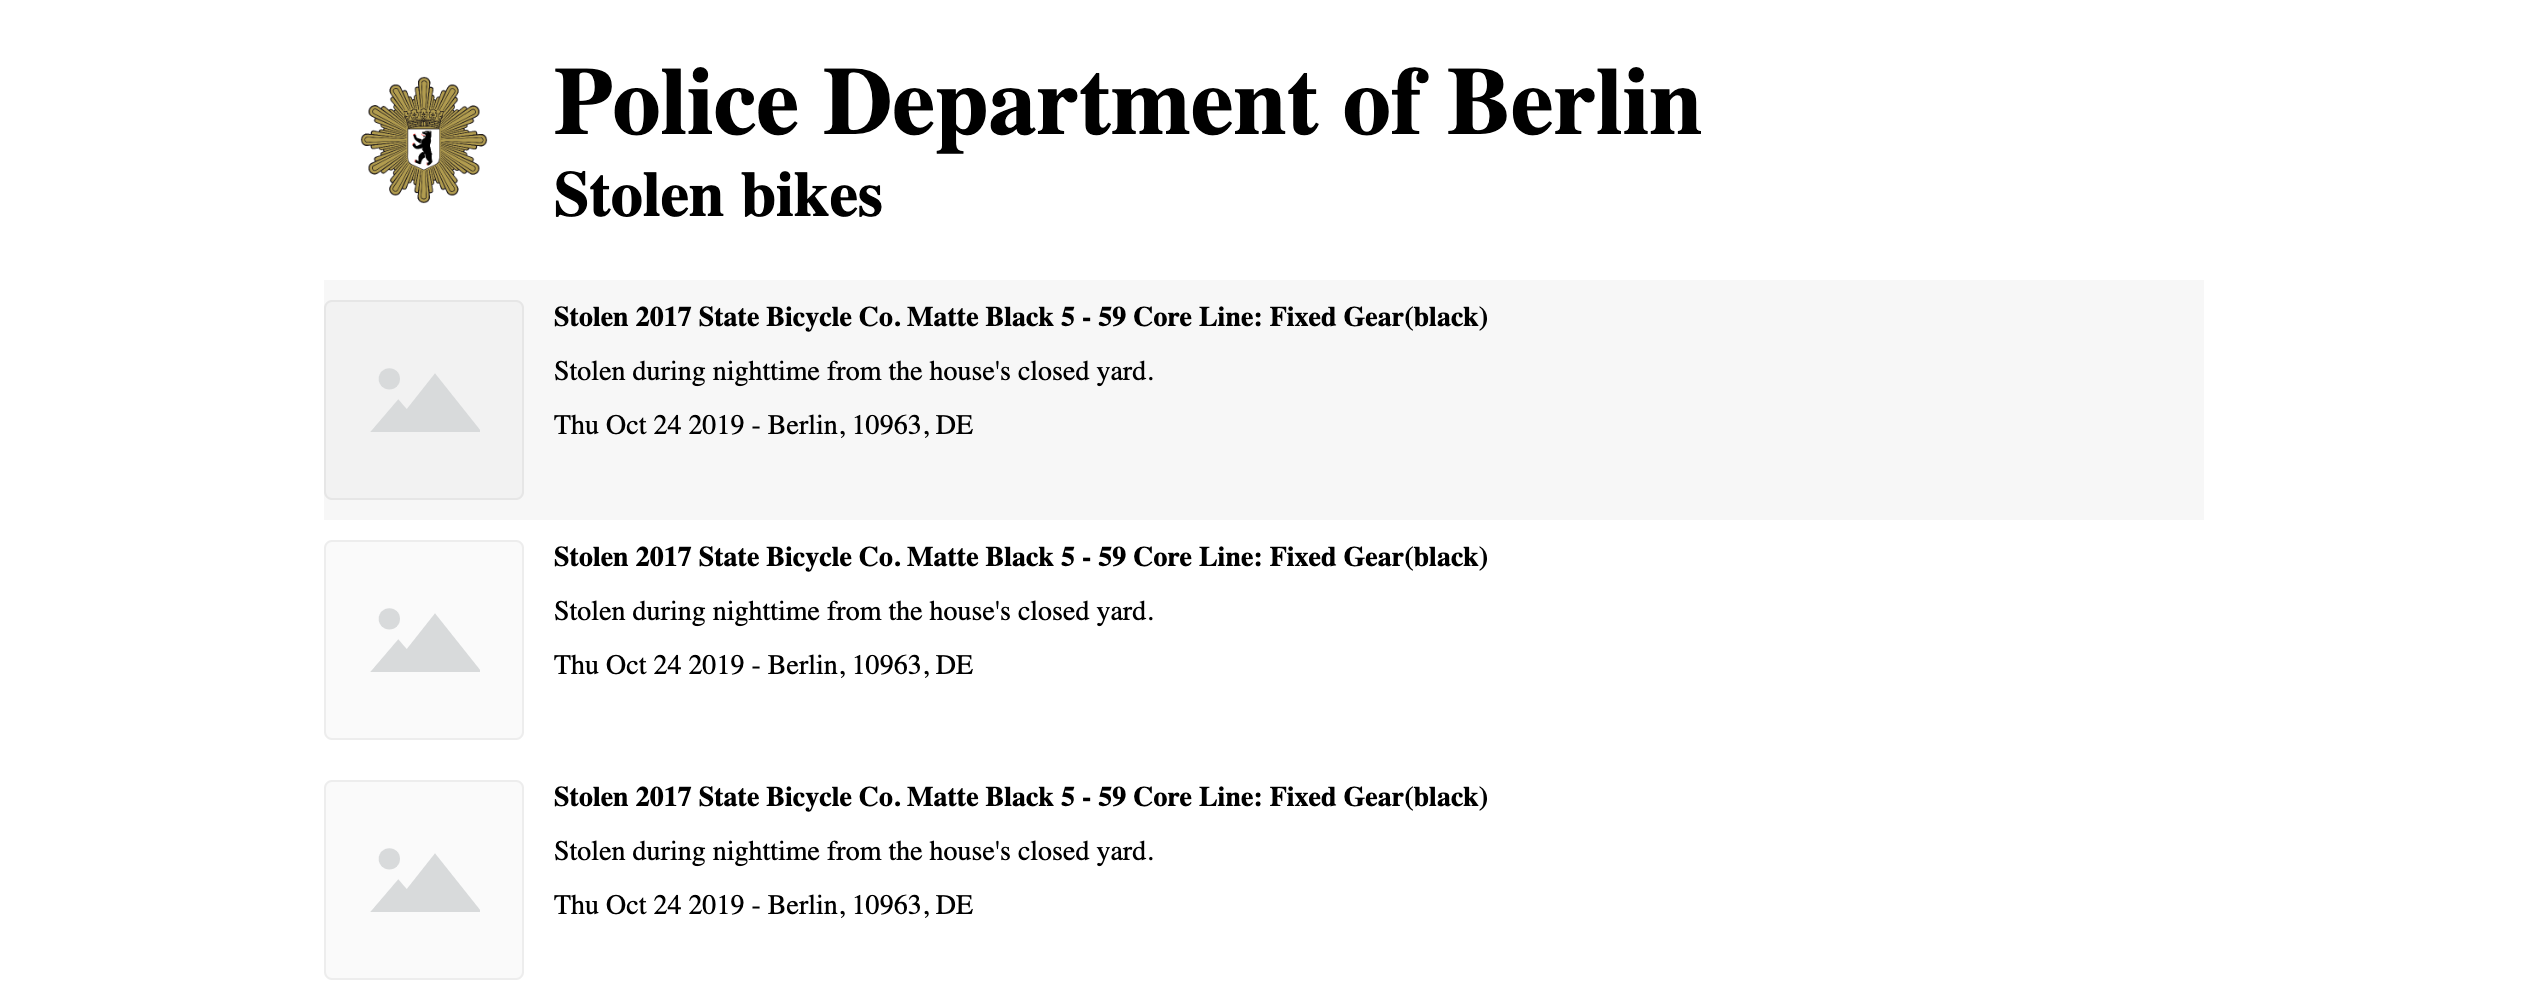
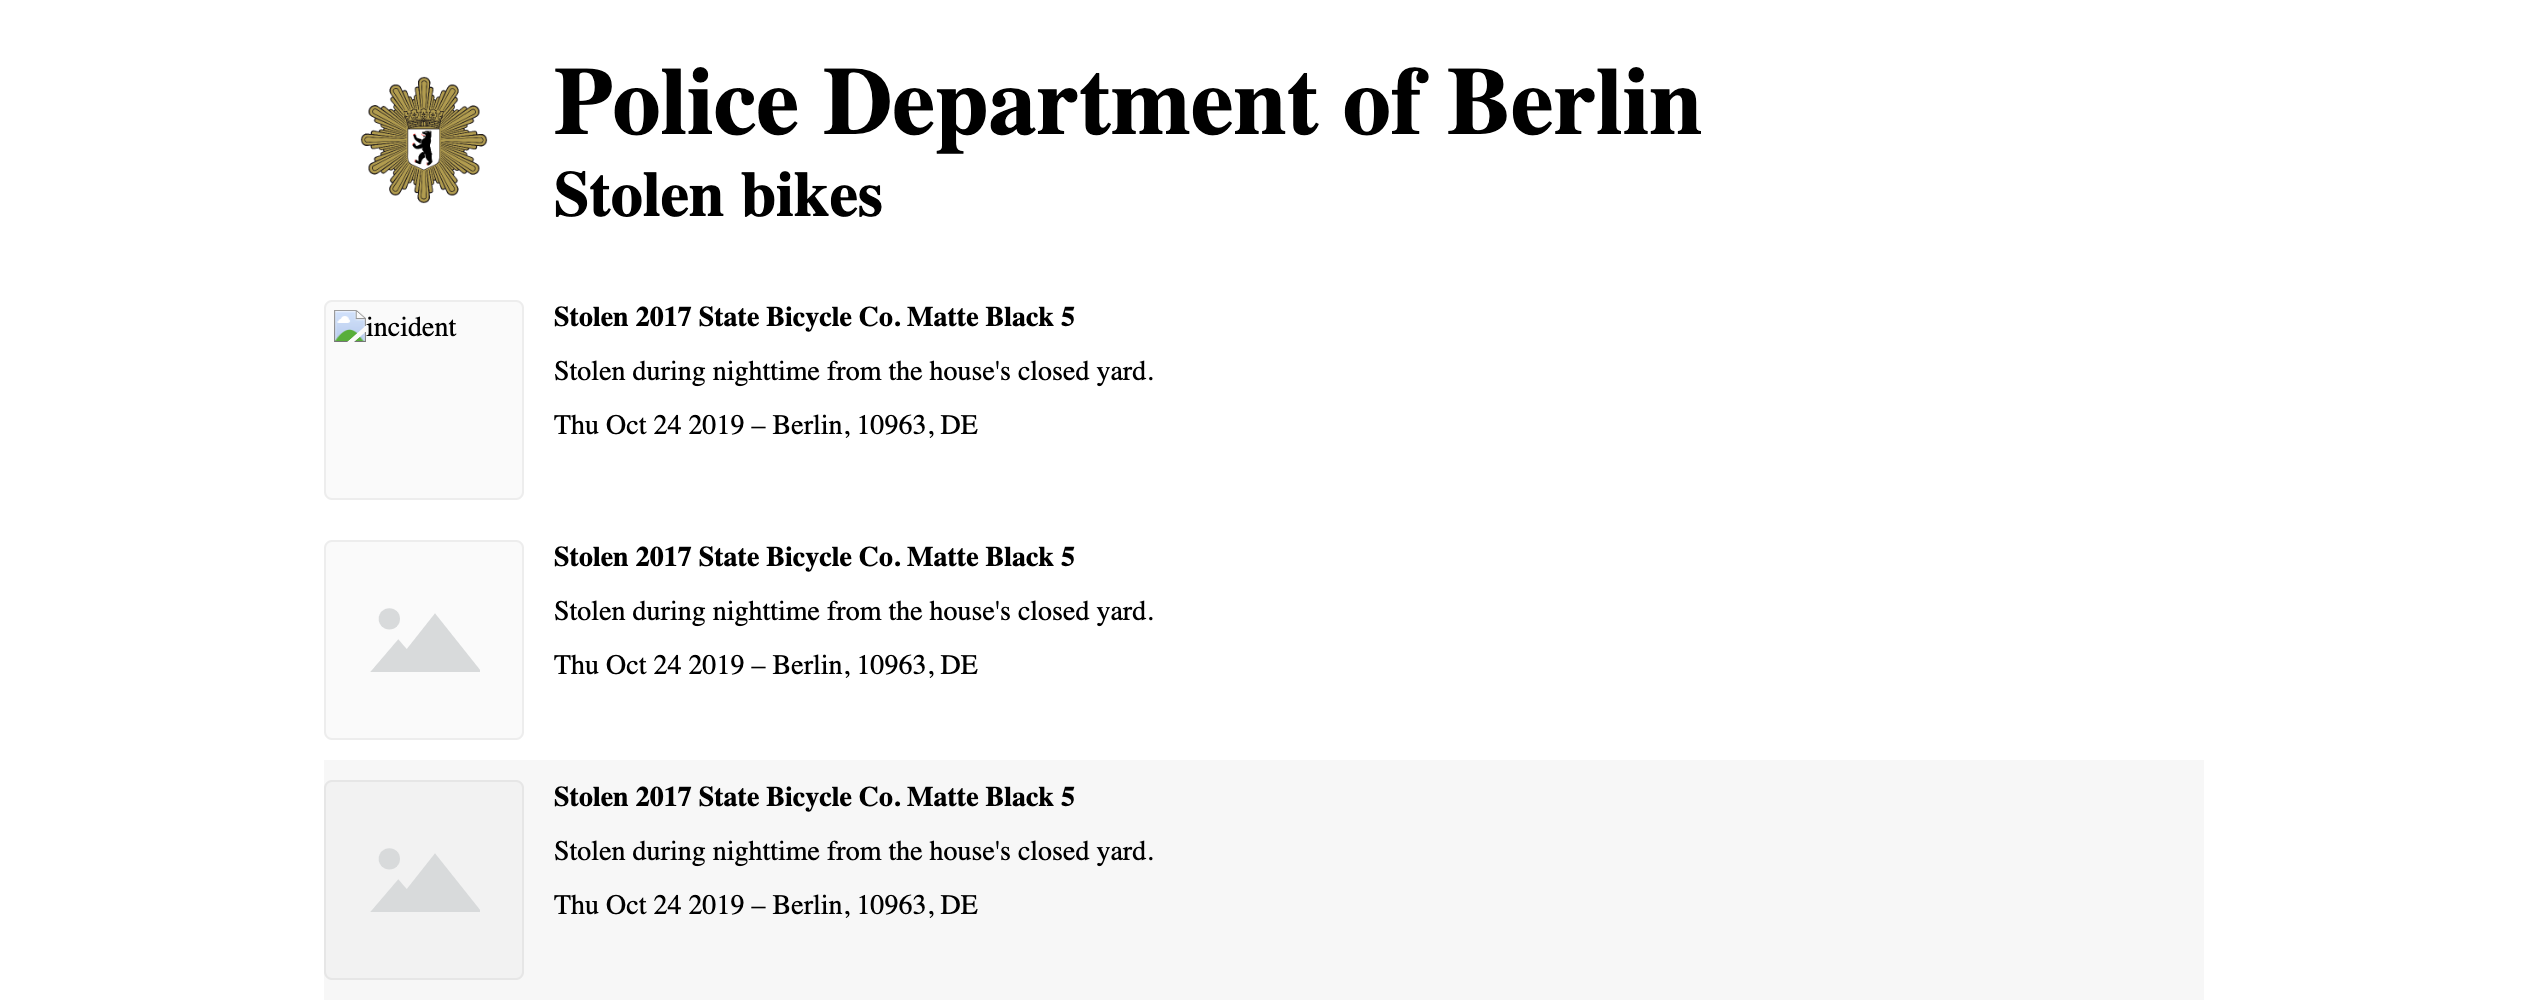
Add behaviour tests

diff --git a/app/e2e-tests/IncidentsList@behaviour.hermione.js b/app/e2e-tests/IncidentsList@behaviour.hermione.js
@@ -1,0 +1,238 @@
+const { assert } = require('chai');
+const { mockIncidents, mockIncidentsWithError } = require('./helpers/mockIncidents');
+const timeout = 5000;
+
+describe('Behaviour. Incidents list', () => {
+    describe('I want to see a list of reported bike thefts for the Berlin area.', () => {
+        describe('For each incident I want to see title, description, image, occurredAt, address', () => {
+            it('should render title', function() {
+                return this.browser
+                    .url('/')
+                    .execute(mockIncidents)
+                    .waitForVisible('[data-test-id="incidents-list"]', timeout)
+                    .execute(() => {
+                        const incidents = document.body.querySelectorAll('[data-test-id="incident"]');
+
+                        const result = {
+                            incidentsCount: incidents.length,
+                        };
+
+                        const incident = incidents.length > 0 ? incidents[0] : null;
+                        if (incident === null) {
+                            return result;
+                        }
+
+                        const titles = incident.querySelectorAll('[data-test-id="incident__title"]');
+                        result.titlesCount = titles.length;
+
+                        result.incidentTitleText = titles.length > 0 && titles[0].textContent;
+
+                        return result;
+                    })
+                    .then(result => {
+                        const { value } = result;
+                        const { incidentsCount, titlesCount, incidentTitleText } = value;
+
+                        assert.isOk(incidentsCount > 0, 'Should be at least one incident');
+                        assert.isOk(titlesCount === 1, 'Should be one title');
+                        const titleText = 'Stolen 2017 State Bicycle Co. Matte Black 5';
+                        assert.isOk(incidentTitleText === titleText, 'It should match text value');
+                    });
+            });
+
+            it('should render description', function() {
+                return this.browser
+                    .url('/')
+                    .execute(mockIncidents)
+                    .waitForVisible('[data-test-id="incidents-list"]', timeout)
+                    .execute(() => {
+                        const incidents = document.body.querySelectorAll('[data-test-id="incident"]');
+
+                        const result = {
+                            incidentsCount: incidents.length,
+                        };
+
+                        const incident = incidents.length > 0 ? incidents[0] : null;
+                        if (incident === null) {
+                            return result;
+                        }
+
+                        const descriptions = incident.querySelectorAll('[data-test-id="incident__description"]');
+                        result.descriptionsCount = descriptions.length;
+                        result.incidentDescriptionText = descriptions.length > 0 && descriptions[0].textContent;
+
+                        return result;
+                    })
+                    .then(result => {
+                        const { value } = result;
+                        const { incidentsCount, descriptionsCount, incidentDescriptionText } = value;
+
+                        assert.isOk(incidentsCount > 0, 'Should be at least one incident');
+                        assert.isOk(descriptionsCount === 1, 'Should be one description');
+                        const descriptionText = "Stolen during nighttime from the house's closed yard.";
+                        assert.isOk(incidentDescriptionText === descriptionText, 'It should match text value');
+                    });
+            });
+
+            it('should have image', function() {
+                return this.browser
+                    .url('/')
+                    .execute(mockIncidents)
+                    .waitForVisible('[data-test-id="incidents-list"]', timeout)
+                    .execute(() => {
+                        const incidents = document.body.querySelectorAll('[data-test-id="incident"]');
+
+                        const result = {
+                            incidentsCount: incidents.length,
+                        };
+
+                        const images = incidents[0].querySelectorAll('[data-test-id="incident-image__image"]');
+                        result.imageCount = images.length;
+                        result.imageSrc = images.length > 0 && images[0].style.backgroundImage;
+
+                        const previews = incidents[1].querySelectorAll('[data-test-id="incident-image__preview"]');
+                        result.previewCount = previews.length;
+
+                        return result;
+                    })
+                    .then(result => {
+                        const { value } = result;
+                        const { incidentsCount, previewCount, imageCount, imageSrc } = value;
+
+                        assert.isOk(incidentsCount > 0, 'Should be at least one incident');
+                        assert.isOk(previewCount === 1, 'First incident should have a preview');
+                        assert.isOk(imageCount === 1, 'Second incident should have a image');
+                        const expected = 'url("https://something-wrong.org1/small_bike-3.jpg")';
+                        assert.isOk(imageSrc === expected, 'Image source should match the url');
+                    });
+            });
+
+            describe('I want that date must be in format "Tue Nov 27 2018"', () => {
+                it('should render date', function() {
+                    return this.browser
+                        .url('/')
+                        .execute(mockIncidents)
+                        .waitForVisible('[data-test-id="incidents-list"]', timeout)
+                        .execute(() => {
+                            const incidents = document.body.querySelectorAll('[data-test-id="incident"]');
+
+                            const result = {
+                                incidentsCount: incidents.length,
+                            };
+
+                            const dates = incidents[0].querySelectorAll('[data-test-id="incident__date"]');
+                            result.datesCount = dates.length;
+                            result.incidentDateText = dates.length > 0 && dates[0].textContent;
+
+                            return result;
+                        })
+                        .then(result => {
+                            const { value } = result;
+                            const { incidentsCount, datesCount, incidentDateText } = value;
+
+                            assert.isOk(incidentsCount > 0, 'Should be at least one incident');
+                            assert.isOk(datesCount === 1, 'It should have a occurred date');
+                            assert.isOk(incidentDateText === 'Thu Oct 24 2019', 'It should match text value');
+                        });
+                });
+            });
+
+            describe('I want that address must be in format "Berlin, 10405, DE"', () => {
+                it('should render address', function() {
+                    return this.browser
+                        .url('/')
+                        .execute(mockIncidents)
+                        .waitForVisible('[data-test-id="incidents-list"]', timeout)
+                        .execute(() => {
+                            const incidents = document.body.querySelectorAll('[data-test-id="incident"]');
+
+                            const result = {
+                                incidentsCount: incidents.length,
+                            };
+
+                            const addresss = incidents[0].querySelectorAll('[data-test-id="incident__address"]');
+                            result.addresssCount = addresss.length;
+                            result.incidentAddressText = addresss.length > 0 && addresss[0].textContent;
+
+                            return result;
+                        })
+                        .then(result => {
+                            const { value } = result;
+                            const { incidentsCount, addresssCount, incidentAddressText } = value;
+
+                            assert.isOk(incidentsCount > 0, 'Should be at least one incident');
+                            assert.isOk(addresssCount === 1, 'It should have a address');
+                            assert.isOk(incidentAddressText === 'Berlin, 10963, DE', 'It should match text value');
+                        });
+                });
+            });
+        });
+    });
+
+    // describe('I want to see the first 10 bike theft cases, with the ability to - paginate (10 cases per page).', () => {});
+    // describe('I want to see a total number of bike theft cases.', () => {});
+    // describe('I want to filter reported bike thefts by partial case title.', () => {});
+    // describe('I want to filter reported bike thefts by date range.', () => {});
+});
+
+// describe('Incident details: for each reported bike theft I want to see:', () => {
+//     describe('Case title', () => {});
+//     describe('Case description', () => {});
+//     describe('Date of the theft', () => {});
+//     describe('Date of when the case was reported', () => {});
+//     describe('Location of the theft', () => {});
+//     describe('Picture of the bike, if available', () => {});
+// });
+
+describe('Behaviour. Common cases', () => {
+    describe('I want to see a loading state until the list is available.', () => {
+        it('should render loading state', function() {
+            return this.browser
+                .url('/')
+                .execute(mockIncidents)
+                .waitForVisible('[data-test-id="loading"]', timeout)
+                .execute(() => {
+                    const loading = document.body.querySelectorAll('[data-test-id="loading"]');
+                    const loadingText = loading.length > 0 && loading[0].textContent;
+
+                    return {
+                        loadingCount: loading.length,
+                        loadingText,
+                    };
+                })
+                .then(result => {
+                    const { value } = result;
+                    const { loadingCount, loadingText } = value;
+
+                    assert.isOk(loadingCount === 1, 'It should be one loading component');
+                    assert.isOk(loadingText === 'Loading ...', 'It should match text value');
+                });
+        });
+    });
+
+    describe('I want to see an error state if the list is unavailable.', () => {
+        it('should render error state', function() {
+            return this.browser
+                .url('/')
+                .execute(mockIncidentsWithError)
+                .waitForVisible('[data-test-id="error"]', timeout)
+                .execute(() => {
+                    const error = document.body.querySelectorAll('[data-test-id="error"]');
+                    const errorText = error.length > 0 && error[0].textContent;
+
+                    return {
+                        errorCount: error.length,
+                        errorText,
+                    };
+                })
+                .then(result => {
+                    const { value } = result;
+                    const { errorCount, errorText } = value;
+
+                    assert.isOk(errorCount === 1, 'It should be one error component');
+                    assert.isOk(errorText === 'Ooops, something went wrong', 'It should match text value');
+                });
+        });
+    });
+    describe('I want to see an empty state if there are no results.', () => {});
+});

diff --git a/app/e2e-tests/helpers/mockIncidents.js b/app/e2e-tests/helpers/mockIncidents.js
@@ -7,8 +7,8 @@ function mockIncidents() {
             locationDescription: null,
             locationType: null,
             media: {
-                imageUrl: null,
-                imageUrlThumb: null,
+                imageUrl: id === 0 ? 'https://something-wrong.org1/large_bike-3.jpg' : null,
+                imageUrlThumb: id === 0 ? 'https://something-wrong.org1/small_bike-3.jpg' : null,
             },
             occurredAt: 1571918301,
             source: {
@@ -16,7 +16,7 @@ function mockIncidents() {
                 htmlUrl: 'https://bikeindex.org/bikes/669448',
                 apiUrl: 'https://bikeindex.org/api/v1/bikes/669448',
             },
-            title: 'Stolen 2017 State Bicycle Co. Matte Black 5 - 59 Core Line: Fixed Gear(black)',
+            title: 'Stolen 2017 State Bicycle Co. Matte Black 5',
             type: 'Theft',
             typeProperties: null,
             updatedAt: 1573322470,
@@ -32,7 +32,25 @@ function mockIncidents() {
             return new Promise(function(resolve) {
                 setTimeout(function() {
                     resolve({ status: 200, data: { incidents: fakeIncidents } });
-                }, 1000);
+                }, 2000);
+            });
+        }
+
+        return window.api.get(...args);
+    };
+
+    window.mockResolved = true;
+}
+
+function mockIncidentsWithError() {
+    window.api.get = function(...args) {
+        const [url] = args;
+
+        if (url === '/incidents') {
+            return new Promise(function(resolve) {
+                setTimeout(function() {
+                    resolve({ status: 400, data: {} });
+                }, 2000);
             });
         }
 
@@ -44,4 +62,5 @@ function mockIncidents() {
 
 module.exports = {
     mockIncidents,
+    mockIncidentsWithError,
 };

diff --git a/app/src/components/incidents/Incident/index.tsx b/app/src/components/incidents/Incident/index.tsx
@@ -7,11 +7,13 @@ import { ImageThumb } from './ImageThumb';
 type IProps = IIncident;
 
 export const Incident: React.FC<IProps> = (props: IProps) => (
-    <Container data-test-id="inicidents-list__item">
+    <Container data-test-id="incident">
         <ImageThumb {...props.media} />
         <TextContainer>
-            <IncidentTitle>{props.title}</IncidentTitle>
-            {props.description && <IncidentDescription>{props.description}</IncidentDescription>}
+            <IncidentTitle data-test-id="incident__title">{props.title}</IncidentTitle>
+            {props.description && (
+                <IncidentDescription data-test-id="incident__description">{props.description}</IncidentDescription>
+            )}
             <IncidentDetails>{getDetails(props)}</IncidentDetails>
         </TextContainer>
     </Container>
@@ -19,10 +21,16 @@ export const Incident: React.FC<IProps> = (props: IProps) => (
 
 function getDetails({ occurredAt, address }: IProps) {
     const date = occurredAt && dateToString(occurredAt);
+    const dateComponent = <span data-test-id="incident__date">{date}</span>;
+    const addressComponent = <span data-test-id="incident__address">{address}</span>;
 
-    if (date && address) {
-        return `${date} - ${address}`;
+    if (dateComponent && addressComponent) {
+        return (
+            <>
+                {dateComponent} – {addressComponent}
+            </>
+        );
     }
 
-    return date ? date : address;
+    return dateComponent ? dateComponent : addressComponent;
 }

diff --git a/app/src/pages/__tests__/IncidentsPage.test.tsx b/app/src/pages/__tests__/IncidentsPage.test.tsx
@@ -58,7 +58,7 @@ describe('IncidentsPage', () => {
             let request = moxios.requests.mostRecent();
             await request.respondWith({ status: 200, response: { status: 200, incidents } });
 
-            const container = root.querySelectorAll('[data-test-id="inicidents-list__item"]');
+            const container = root.querySelectorAll('[data-test-id="incident"]');
             expect(container).toHaveLength(3);
 
             jest.resetAllMocks();
@@ -80,7 +80,7 @@ describe('IncidentsPage', () => {
             let request = moxios.requests.mostRecent();
             await request.respondWith({ status: 200, response: { status: 200, incidents } });
 
-            const itemsContainer = root.querySelectorAll('[data-test-id="inicidents-list__item"]');
+            const itemsContainer = root.querySelectorAll('[data-test-id="incident"]');
             expect(itemsContainer).toHaveLength(3);
 
             jest.resetAllMocks();

diff --git a/app/src/components/incidents/Incident/ImageThumb/index.tsx b/app/src/components/incidents/Incident/ImageThumb/index.tsx
@@ -7,7 +7,13 @@ export type IProps = IMedia;
 
 export const ImageThumb = ({ imageUrlThumb }: IProps) => {
     const isPreview = !imageUrlThumb;
-    const content = isPreview ? <Preview /> : <Image imageUrl={imageUrlThumb} />;
+    const content = isPreview ? (
+        <Preview data-test-id="incident-image__preview" />
+    ) : (
+        <Image style={{ backgroundImage: `url(${imageUrlThumb})` }} data-test-id="incident-image__image">
+            <img src={imageUrlThumb} alt="incident" height="0" />
+        </Image>
+    );
 
     return <Container isPreview={isPreview}>{content}</Container>;
 };

diff --git a/app/src/components/incidents/Incident/ImageThumb/style.tsx b/app/src/components/incidents/Incident/ImageThumb/style.tsx
@@ -2,7 +2,6 @@ import styled, { StyledComponent } from 'styled-components';
 import { media } from 'ui/utils';
 
 import prevewSvg from './assets/preview.svg';
-import { IProps } from '.';
 
 interface IContainerProps {
     isPreview: boolean;
@@ -31,7 +30,6 @@ export const Container: StyledComponent<'div', any, IContainerProps, never> = st
 `;
 
 export const Image = styled.div`
-    background-image: url(${(props: IProps) => props.imageUrl});
     background-repeat: no-repeat;
     background-size: cover;
 

diff --git a/app/.hermione.conf.js b/app/.hermione.conf.js
@@ -13,6 +13,10 @@ module.exports = {
 			files: 'e2e-tests/**/*@common.hermione.js',
 			browsers: ['chrome', 'firefox', 'iphone8', 'ipad']
 		},
+        behaviour: {
+			files: 'e2e-tests/**/*@behaviour.hermione.js',
+			browsers: ['chrome']
+		},
         desktop: {
 			files: 'e2e-tests/**/*@desktop.hermione.js',
 			browsers: ['chrome', 'firefox']
